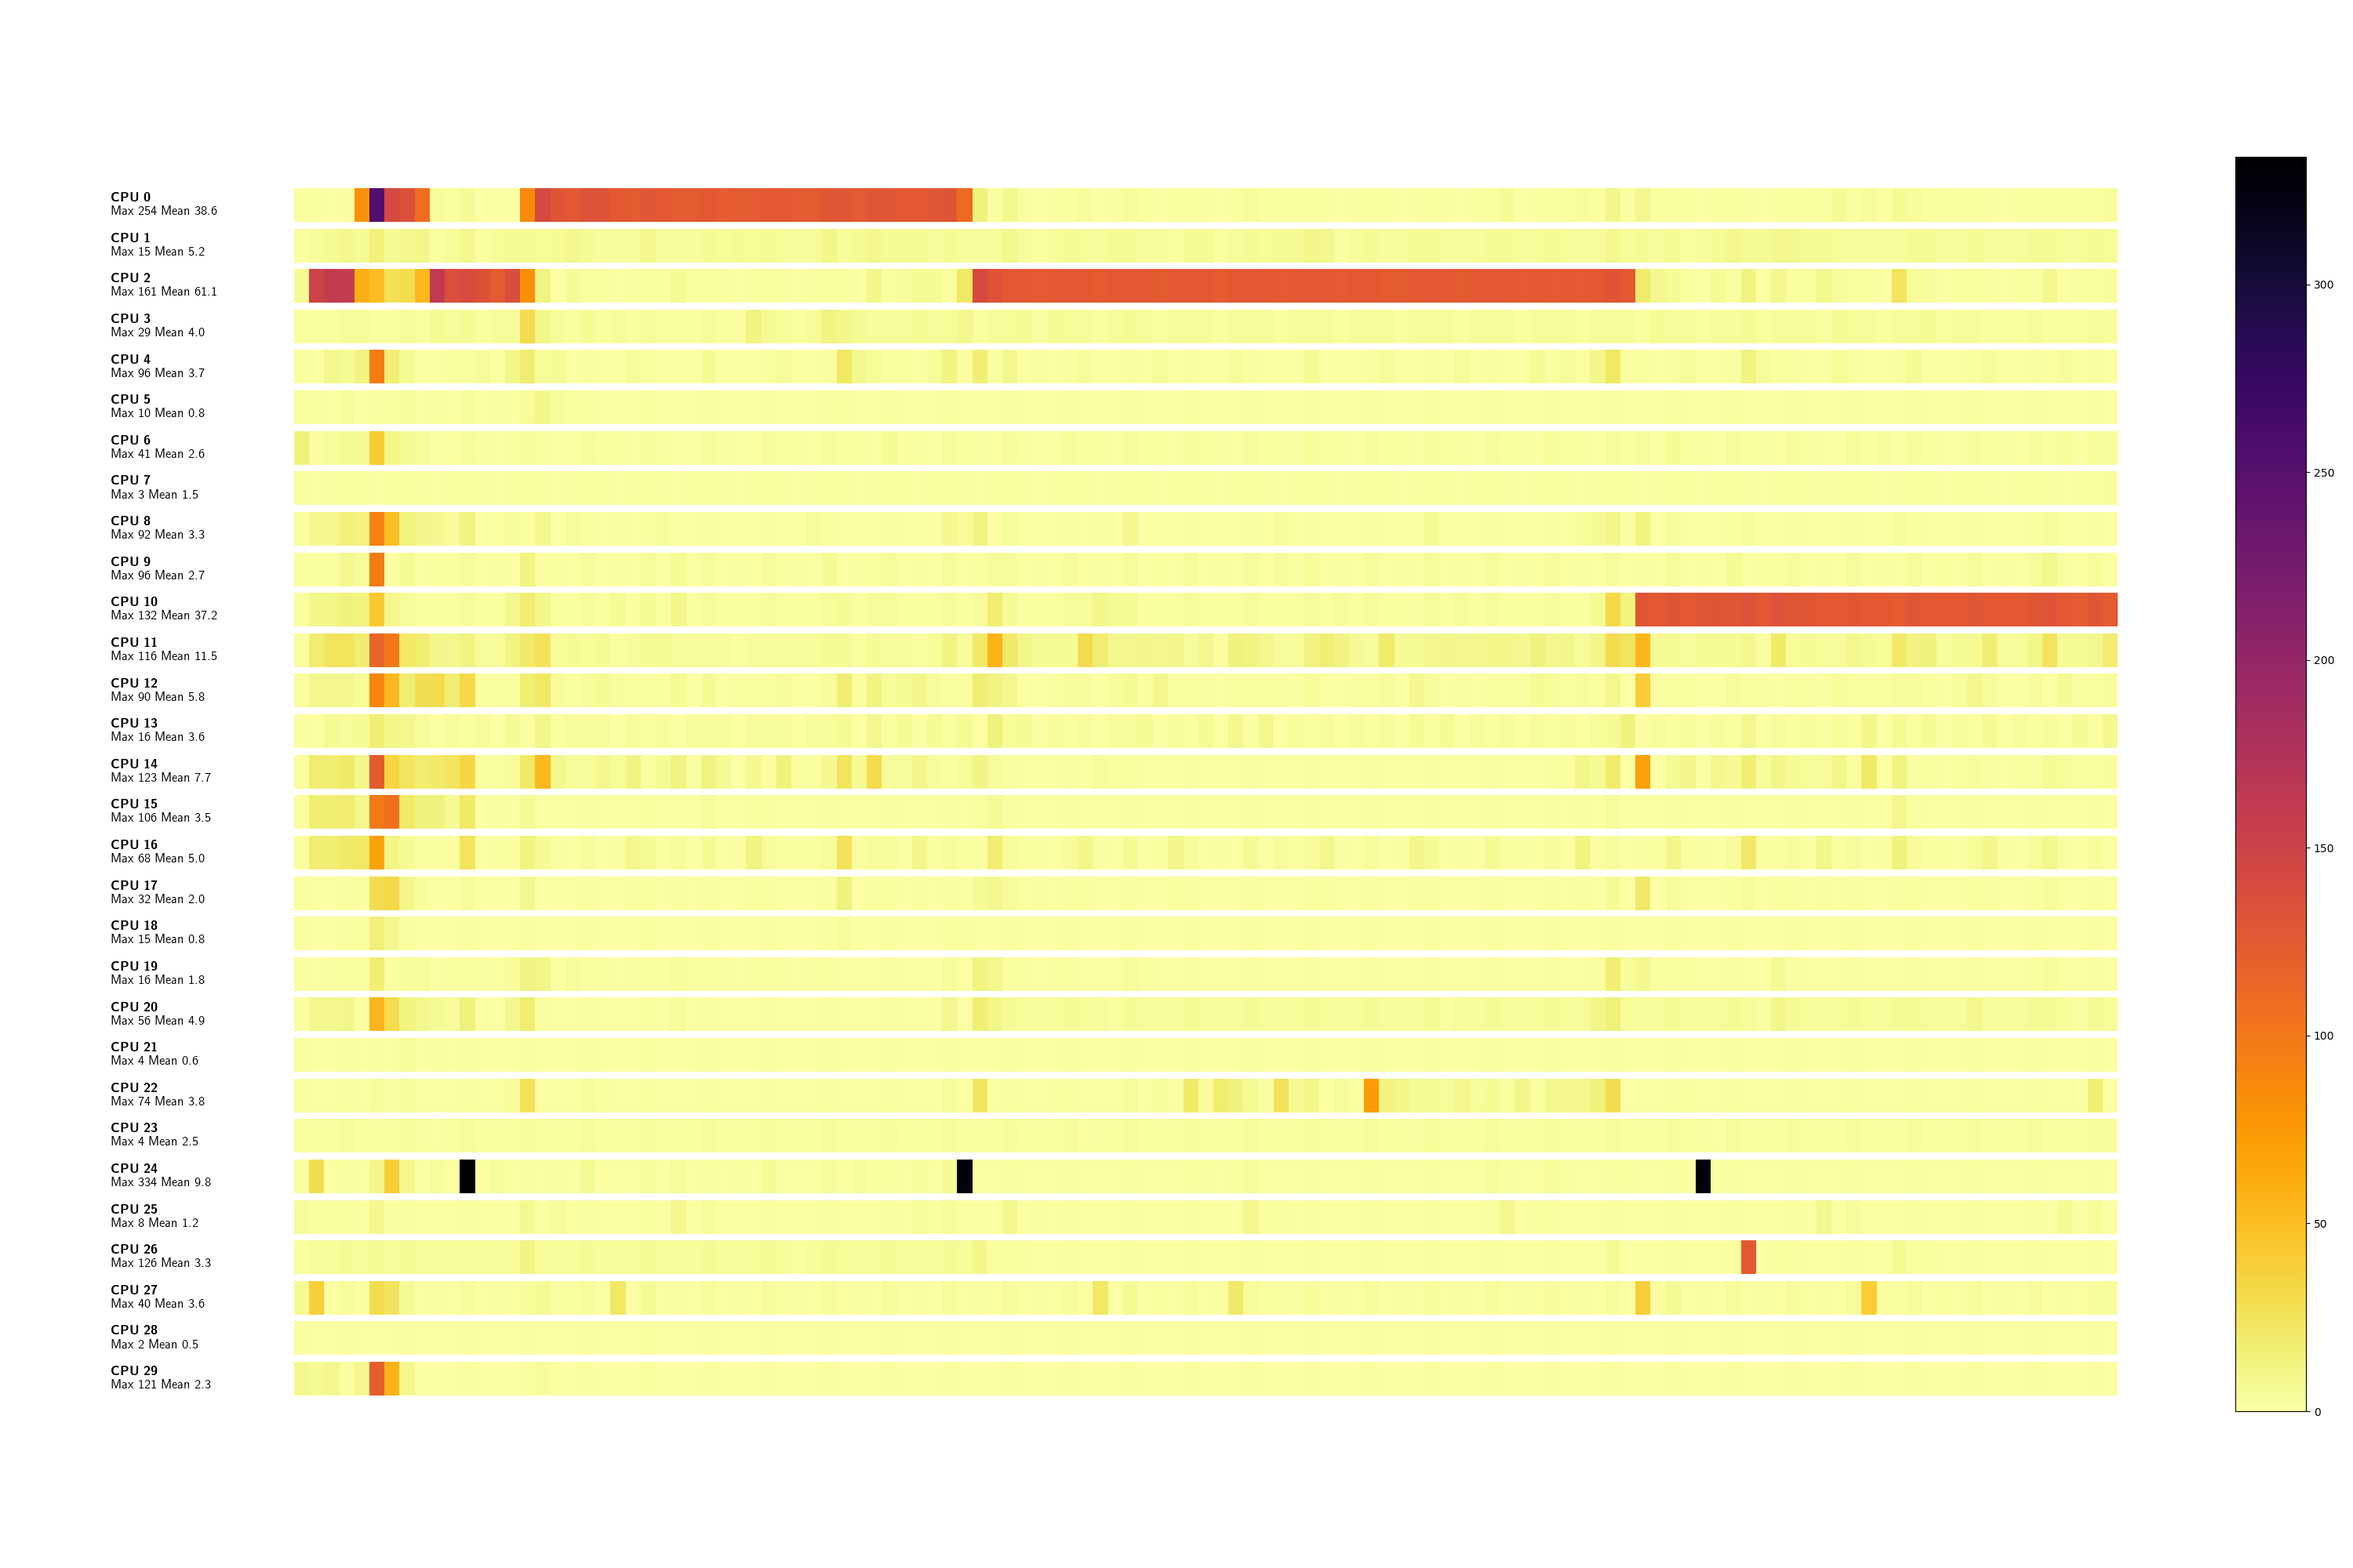
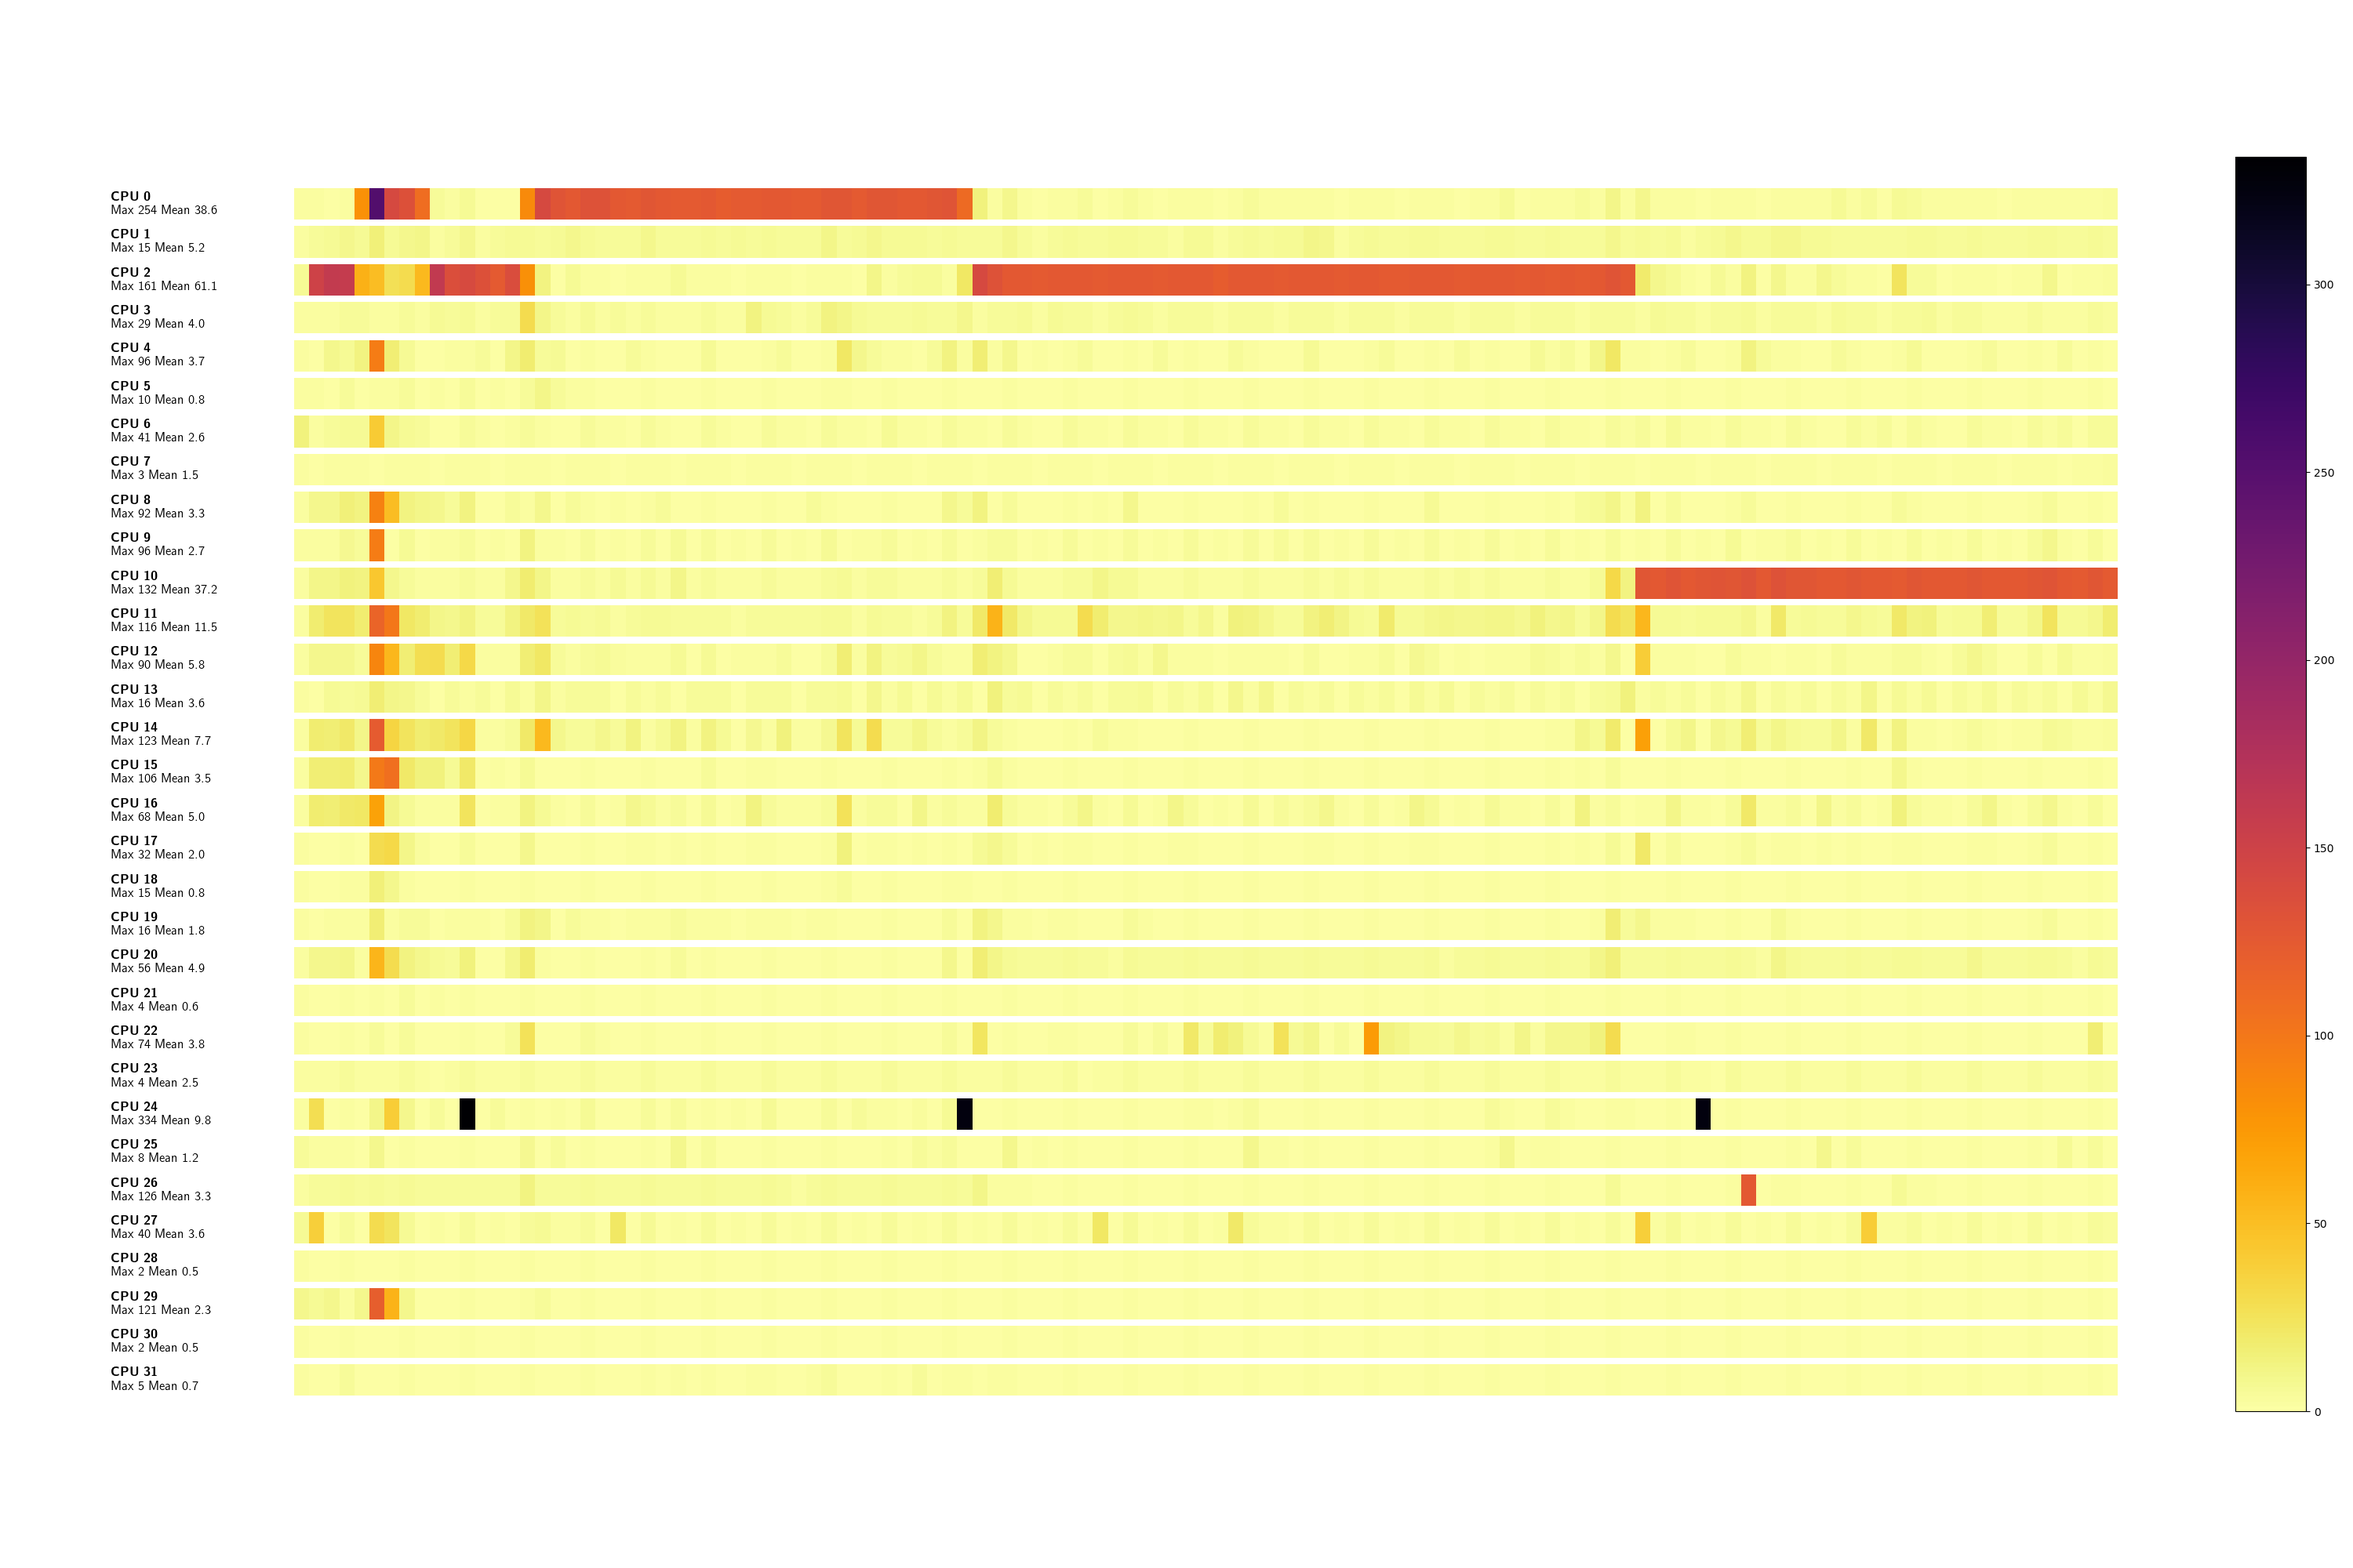
wakeups: cleanup code

Changed region(s): [[0.124, 0.124, 0.899, 0.899], [0.031, 0.124, 0.093, 0.899]]

diff --git a/images/wakeups-timesequence-01/wakeups-timemap-cpu.py b/images/wakeups-timesequence-01/wakeups-timemap-cpu.py
@@ -12,34 +12,34 @@ data = pd.read_csv("wakeups-timemap-cpu.txt", sep='\s+', header=None)
 columns = ['cpu'] + [f'time{i}' for i in range(2, len(data.columns) + 1)]
 data.columns = columns
 max_value = data.iloc[:, 1:].max().max()
-data = data.head(30)
 
 tasks = data.shape[0]
 
-
-fig, ax = plt.subplots(tasks, 1, sharex=True, figsize=(30, 20))
+fig, axs = plt.subplots(tasks, 1, sharex=True, figsize=(30, 20))
 for i, data in enumerate(data.iterrows()):
     index, row = data
     cpu = row.iloc[0]
     row_max_value = row.iloc[1:].max()
     row_mean_value = row.iloc[1:].mean()
     reshaped_array = np.array(row.iloc[1:]).reshape((1, -1))
-    im = ax[i].imshow(reshaped_array, cmap=plt.cm.inferno_r, extent=[0, 10, 0, 10], aspect='auto', interpolation='none', vmin=0, vmax=max_value)
+    im = axs[i].imshow(reshaped_array, cmap=plt.cm.inferno_r, extent=[0, 10, 0, 10], aspect='auto', interpolation='none', vmin=0, vmax=max_value)
+    # I use TeX here for boldface font generatiom, remove textbf and usetex=False
+    # to get rid of it
     text = f"\\textbf{{CPU {cpu}}}\nMax {row_max_value}  Mean {row_mean_value:.1f}"
-    ax[i].text(-1, 5, text, multialignment='left', va='center', ha='left', fontsize=12, usetex=True)
+    axs[i].text(-1, 5, text, multialignment='left', va='center', ha='left', fontsize=12, usetex=True)
 
-cbar_ax = fig.add_axes([0.95, 0.1, 0.03, 0.8])  # [left, bottom, width, height]
+cbar_ax = fig.add_axes([0.95, 0.1, 0.03, 0.8])
 cbar = fig.colorbar(im, cax=cbar_ax)
 
-for a in ax:
-    a.set_xticks([])
-    a.set_yticks([])
-    a.set_xticklabels([])
-    a.set_yticklabels([])
-    a.spines['top'].set_visible(False)
-    a.spines['right'].set_visible(False)
-    a.spines['bottom'].set_visible(False)
-    a.spines['left'].set_visible(False)
+for ax in axs:
+    ax.set_xticks([])
+    ax.set_yticks([])
+    ax.set_xticklabels([])
+    ax.set_yticklabels([])
+    ax.spines['top'].set_visible(False)
+    ax.spines['right'].set_visible(False)
+    ax.spines['bottom'].set_visible(False)
+    ax.spines['left'].set_visible(False)
 
 plt.savefig('wakeups-timemap-cpu.pdf')
 plt.savefig('wakeups-timemap-cpu.png')

diff --git a/images/wakeups-timesequence-01/wakeups-timemap-task.py b/images/wakeups-timesequence-01/wakeups-timemap-task.py
@@ -19,11 +19,10 @@ for i, data in enumerate(data.iterrows()):
     pid = row.iloc[0]
     tid = row.iloc[1]
     comm = row.iloc[2]
-    selected_columns = row.iloc[3:].tolist()
-    one_dimensional_array = np.array(selected_columns)
-    reshaped_array = one_dimensional_array.reshape((1, -1))
-    #reshaped_array = np.array(row.iloc[3:]).reshape((1, -1))
+    reshaped_array = np.array(row.iloc[3:].tolist()).reshape((1, -1))
     im = axs[i].imshow(reshaped_array, cmap=plt.cm.inferno_r, extent=[0, 10, 0, 10], aspect='auto', interpolation='none', vmin=0, vmax=max_value)
+    # I use TeX here for boldface font generatiom, remove textbf and usetex=False
+    # to get rid of it
     text = f"\\textbf{{{comm}}}\nPID: {pid}  TID: {tid}"
     axs[i].text(-1, 5, text, multialignment='left', va='center', ha='left', fontsize=12, usetex=True)
 
